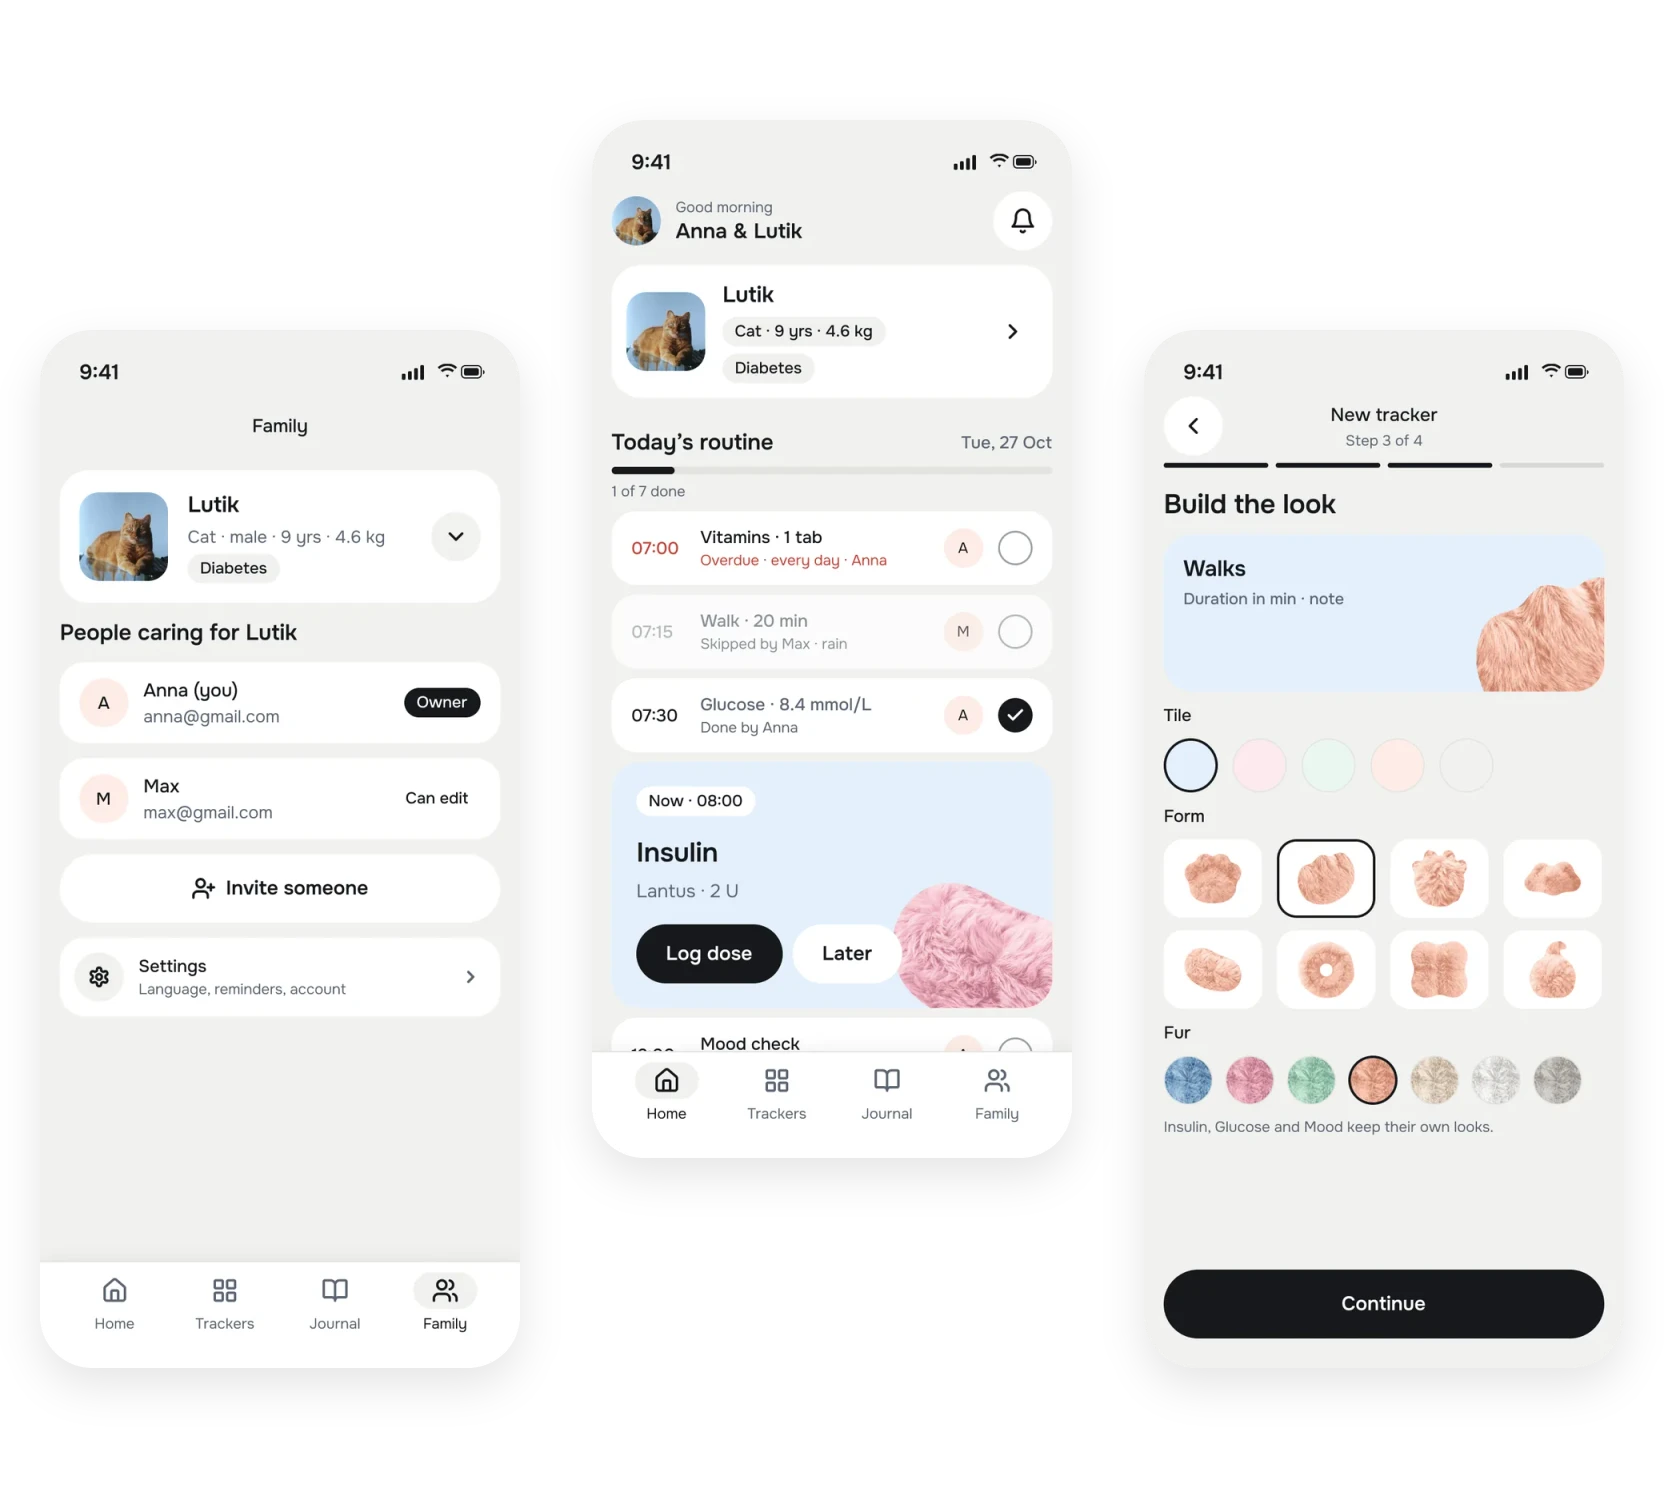
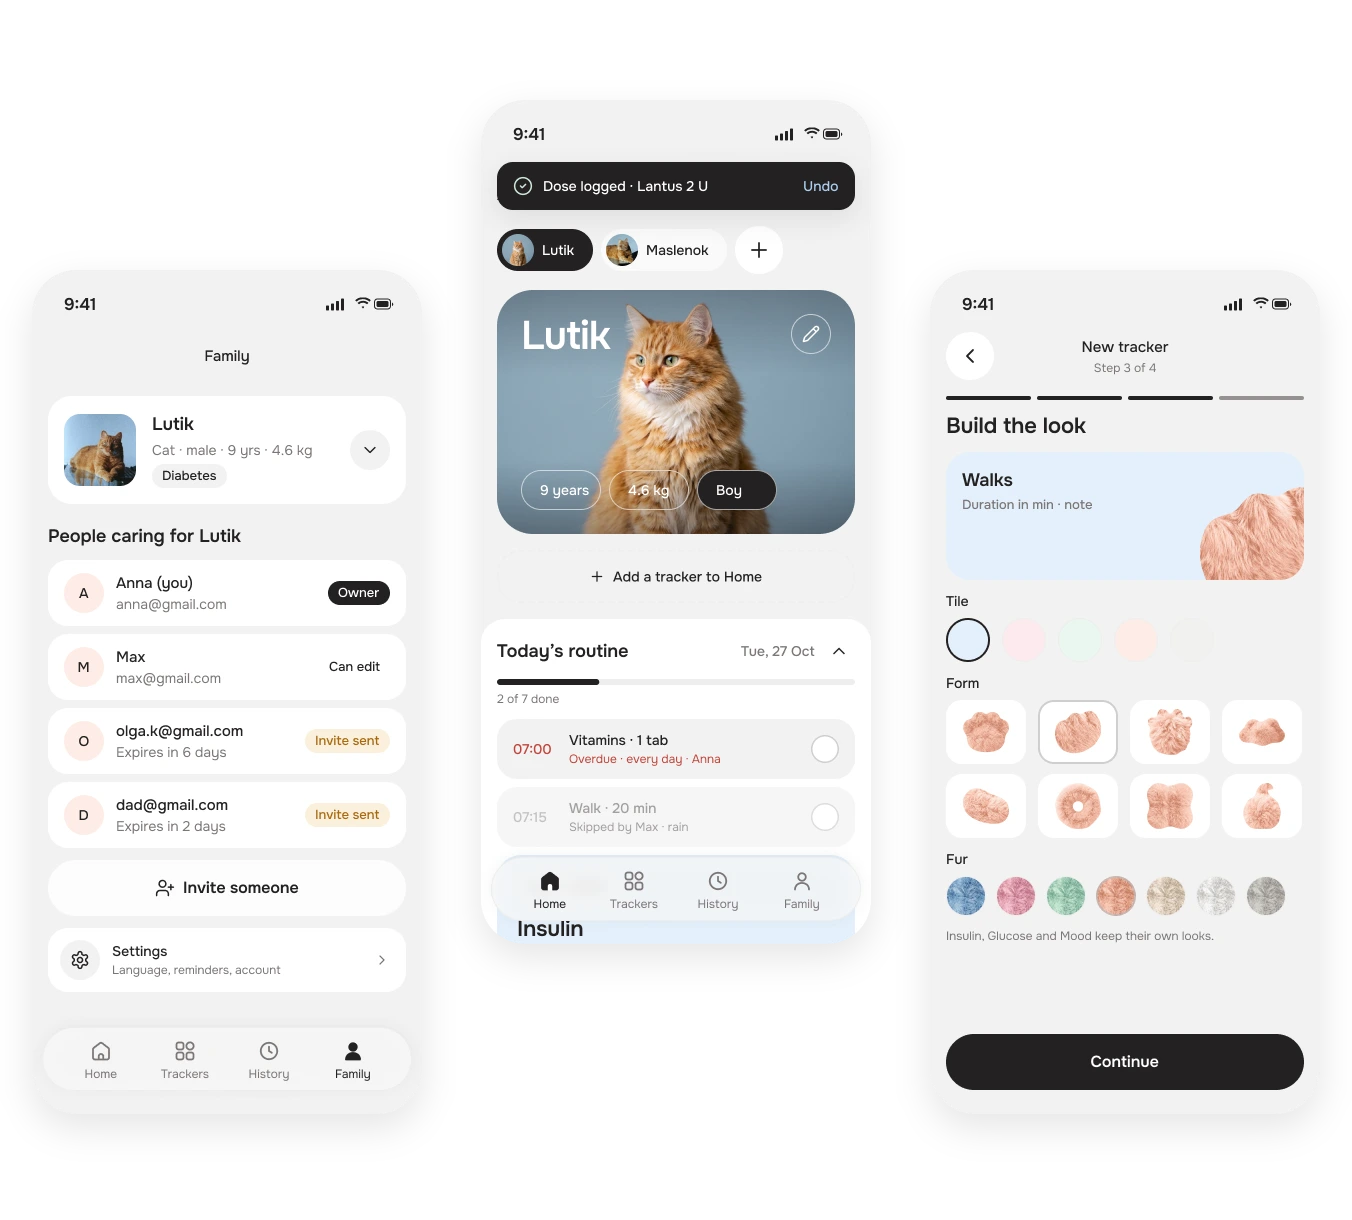
fix: cat app case uses the current Fluffy Chumb screens and MVP scope
The cover and the v2 band came from an outdated landing export. They are now
the current English frames from the Figma MVP page (77:19). The text follows
the MVP scope: reminders are local and a family push comes later, insulin and
glucose are separate trackers, family invites by email with roles, history
export for the vet. The case is named Fluffy Chumb and links to fluffychumb.com.

diff --git a/src/data/caseStudies.ru.js b/src/data/caseStudies.ru.js
@@ -58,13 +58,13 @@ export const catAppCaseStudy = {
   slug: 'cat-app',
   backHref: '/',
   hero: {
-    title: 'Трекер ухода за питомцем',
+    title: 'Fluffy Chumb',
     description:
       'Я сделала трекер уколов инсулина для своего кота. Интервью с пользователями MVP показали: уход — это не одна задача, а много мелких дел, которые делят несколько людей. Вторая версия — про гибкие трекеры и общую рутину дня.',
-    meta: 'Pet-tech / Сайд-проект / MVP → v2',
+    meta: 'Трекер ухода за питомцем / Сайд-проект / MVP → v2',
     image: {
       src: petTrackerV2Cover,
-      alt: 'Три экрана второй версии: семья, дела на сегодня и конструктор трекера',
+      alt: 'Три экрана Fluffy Chumb: семья, главная с делами на сегодня и конструктор трекера',
     },
     stats: [
       { value: '2', label: 'группы пользователей в интервью' },
@@ -188,7 +188,7 @@ export const catAppCaseStudy = {
             {
               type: 'text',
               heading: 'Карта уколов мешала тому, кто только мерит глюкозу',
-              paragraphs: ['Трекеры собираются под питомца: только нужные действия, карта уколов — по желанию.'],
+              paragraphs: ['Инсулин и глюкоза стали отдельными трекерами: тот, кто только мерит глюкозу, не видит карту уколов.'],
             },
             {
               type: 'text',
@@ -213,7 +213,7 @@ export const catAppCaseStudy = {
             {
               type: 'text',
               heading: 'Хозяева не хотят контролировать ситтера',
-              paragraphs: ['Рутина дня и push-уведомления: сделанное видно без вопросов.'],
+              paragraphs: ['В делах на сегодня видно, кто что сделал, а напоминания приходят на телефон каждому — спрашивать не нужно.'],
             },
           ],
         },
@@ -227,7 +227,7 @@ export const catAppCaseStudy = {
         {
           type: 'richTextLead',
           paragraphs: [
-            'Новое позиционирование: не трекер диабета, а приложение, где уход собирается из своих трекеров. Диабет остался одним из них.',
+            'Новое позиционирование: не трекер диабета, а Fluffy Chumb — трекер ухода, который меняется вместе с питомцем. Уход собирается из своих трекеров, и диабет остался одним из них.',
           ],
         },
         {
@@ -236,7 +236,7 @@ export const catAppCaseStudy = {
           media: {
             type: 'image',
             src: petTrackerV2Screens,
-            alt: 'Экраны второй версии: дела на сегодня, конструктор трекера, инсулин, свой трекер прогулок и доступ для семьи',
+            alt: 'Экраны Fluffy Chumb: главная с делами на сегодня, трекеры, конструктор трекера, инсулин, свой трекер прогулок и семья',
           },
         },
         {
@@ -246,19 +246,20 @@ export const catAppCaseStudy = {
               type: 'list',
               heading: 'Общий уход',
               items: [
-                'Рутина дня — все дела на сегодня в одном списке с отметками о выполнении.',
-                'Исполнитель задачи — каждый держит фокус на своих задачах и не обязан знать весь протокол.',
-                'Общий профиль питомца — доступ для семьи и пет-ситтера.',
-                'Push-уведомления — напоминают исполнителю и сообщают хозяевам, что дело сделано.',
+                'Дела на сегодня — задачи из расписаний всех трекеров в одном списке: отметить, пропустить с причиной или отложить.',
+                'У задачи видно, для кого она и кто её сделал, — каждый держит фокус на своей части протокола.',
+                'Семья — приглашение по email, в том числе пет-ситтера, с ролью Owner или Can edit.',
+                'Напоминания — уведомления на телефоне, каждый включает у себя. Пуш всей семье — следующий шаг.',
+                'История и экспорт врачу — 7 или 30 дней, графики и текстовая сводка, которой можно поделиться.',
               ],
             },
             {
               type: 'list',
               heading: 'Гибкие трекеры',
               items: [
-                'Один человек настраивает все трекеры питомца, другие могут добавить новый, когда меняется лечение.',
-                'Свой трекер под любую рутину — прогулки, таблетки, деликатные темы.',
-                'Инсулин, глюкоза и карта уколов остались для тех, кому они нужны.',
+                'Конструктор трекера: имя, поля (число, шкала, да / нет, заметка), плитка со своей формой и мехом, ритм, закрепить на главной.',
+                'Простые трекеры для таблеток, витаминов, прогулок и еды; Mood — готовый пресет.',
+                'Диабет — готовый набор из Insulin и Glucose, и каждый работает отдельно: карта уколов — только для тех, кто колет.',
               ],
             },
           ],
@@ -275,6 +276,12 @@ export const catAppCaseStudy = {
           paragraphs: [
             'Я собрала тестовую сборку и запустила посадочный лендинг для поиска бета-тестеров. Нашлись 12 человек, готовых тестировать продукт.',
           ],
+        },
+        {
+          type: 'siteLink',
+          label: 'Лендинг беты -',
+          href: 'https://fluffychumb.com/',
+          text: 'fluffychumb.com',
         },
         {
           type: 'noteCard',

diff --git a/src/data/caseStudies.js b/src/data/caseStudies.js
@@ -58,13 +58,13 @@ export const catAppCaseStudy = {
   slug: 'cat-app',
   backHref: '/',
   hero: {
-    title: 'Pet Care Tracker',
+    title: 'Fluffy Chumb',
     description:
       'I built an insulin tracker for my own cat. Interviews with MVP users showed that care is not one task but a lot of small ones shared by several people. Version two is about flexible trackers and a daily routine the whole household shares.',
-    meta: 'Pet-tech / Side project / MVP → v2',
+    meta: 'Pet care tracker / Side project / MVP → v2',
     image: {
       src: petTrackerV2Cover,
-      alt: 'Three screens of the second version: family, today’s routine and the tracker builder',
+      alt: 'Three Fluffy Chumb screens: family, home with today’s routine and the tracker builder',
     },
     stats: [
       { value: '2', label: 'user groups interviewed' },
@@ -188,7 +188,7 @@ export const catAppCaseStudy = {
             {
               type: 'text',
               heading: 'The injection map got in the way of someone who only measures glucose',
-              paragraphs: ['Trackers are built around the pet: only the actions you need, the injection map is optional.'],
+              paragraphs: ['Insulin and glucose became separate trackers: someone who only measures glucose never sees the injection map.'],
             },
             {
               type: 'text',
@@ -213,7 +213,7 @@ export const catAppCaseStudy = {
             {
               type: 'text',
               heading: 'Owners don’t want to keep checking on the sitter',
-              paragraphs: ['A daily routine and push notifications: what is done is visible without asking.'],
+              paragraphs: ['Today’s routine shows who did what, and reminders arrive on each phone — no need to ask.'],
             },
           ],
         },
@@ -227,7 +227,7 @@ export const catAppCaseStudy = {
         {
           type: 'richTextLead',
           paragraphs: [
-            'New positioning: not a diabetes tracker, but an app where care is assembled from your own trackers. Diabetes is now one of them.',
+            'New positioning: not a diabetes tracker, but Fluffy Chumb — a care tracker that changes together with your pet. Care is assembled from your own trackers, and diabetes is now one of them.',
           ],
         },
         {
@@ -236,7 +236,7 @@ export const catAppCaseStudy = {
           media: {
             type: 'image',
             src: petTrackerV2Screens,
-            alt: 'Second version screens: today’s routine, tracker builder, insulin, a custom walks tracker and family access',
+            alt: 'Fluffy Chumb screens: home with today’s routine, trackers, the tracker builder, insulin, a custom walks tracker and family',
           },
         },
         {
@@ -246,19 +246,20 @@ export const catAppCaseStudy = {
               type: 'list',
               heading: 'Shared care',
               items: [
-                'Daily routine — everything due today in one list, with done marks.',
-                'Task assignee — everyone keeps focus on their own tasks and doesn’t need to know the whole protocol.',
-                'Shared pet profile — access for family and the pet sitter.',
-                'Push notifications — remind the assignee and tell the owners a task is done.',
+                'Today’s routine — tasks from every tracker’s schedule in one list: mark done, skip with a reason or snooze.',
+                'Each task shows who it is for and who did it, so everyone keeps focus on their own part of the protocol.',
+                'Family — invite people by email, including the pet sitter, as Owner or Can edit.',
+                'Reminders — notifications on each phone, everyone turns on their own. A family-wide push is the next step.',
+                'History and export for the vet — 7 or 30 days, charts and a text summary to share.',
               ],
             },
             {
               type: 'list',
               heading: 'Flexible trackers',
               items: [
-                'One person sets up all of the pet’s trackers; others can add a new one when treatment changes.',
-                'A custom tracker for any routine — walks, pills, sensitive topics.',
-                'Insulin, glucose and the injection map stay for those who need them.',
+                'A tracker builder: name, fields (number, scale, yes / no, note), a tile with its own shape and fur, a rhythm, pin to Home.',
+                'Simple trackers for pills, vitamins, walks and food; Mood is a ready-made preset.',
+                'Diabetes is a ready-made set of Insulin and Glucose, and each works on its own — the injection map only for those who inject.',
               ],
             },
           ],
@@ -275,6 +276,12 @@ export const catAppCaseStudy = {
           paragraphs: [
             'I put together a test build and launched a landing page to recruit beta testers. Twelve people signed up and are ready to test the product.',
           ],
+        },
+        {
+          type: 'siteLink',
+          label: 'Beta landing page -',
+          href: 'https://fluffychumb.com/',
+          text: 'fluffychumb.com',
         },
         {
           type: 'noteCard',

diff --git a/src/data/portfolioData.ru.js b/src/data/portfolioData.ru.js
@@ -71,7 +71,7 @@ export const cases = byId(en.cases, {
     image: { ...en.cases[2].image, alt: 'Концепт главной страницы Kokoc Group' },
   },
   'cat-app': {
-    title: 'Трекер ухода за питомцем',
+    title: 'Fluffy Chumb',
     category: 'Здоровье питомцев / Пет-проект',
     description:
       'От трекера инсулина для одного кота — к приложению, где семья и пет-ситтер настраивают свои трекеры и делят дела на день. Пересобрано после интервью с пользователями MVP.',
@@ -122,7 +122,7 @@ export const aiProjects = {
       image: { ...en.aiProjects.items[0].image, alt: 'Окна трёх плагинов для дизайн-системы в Figma' },
     },
     {
-      title: 'Трекер ухода за питомцем',
+      title: 'Fluffy Chumb',
       category: 'Здоровье питомцев / Пет-проект',
       description:
         'Свои трекеры ухода и общая рутина дня для семьи и пет-ситтера — вторая версия, пересобранная после интервью с пользователями MVP.',

diff --git a/src/data/portfolioData.js b/src/data/portfolioData.js
@@ -162,7 +162,7 @@ export const cases = [
   },
   {
     id: 'cat-app',
-    title: 'Pet Care Tracker',
+    title: 'Fluffy Chumb',
     year: '2025',
     category: 'Pet Health / Side Project',
     description:
@@ -171,7 +171,7 @@ export const cases = [
     surface: 'pet',
     image: {
       src: petTrackerV2Cover,
-      alt: 'Three screens of the Pet Care Tracker: family, today’s routine and the tracker builder',
+      alt: 'Three Fluffy Chumb screens: family, home with today’s routine and the tracker builder',
     },
     href: '/cat-app',
   },
@@ -249,7 +249,7 @@ export const aiProjects = {
     },
     {
       id: 'cat-app',
-      title: 'Pet Care Tracker',
+      title: 'Fluffy Chumb',
       category: 'Pet Health / Side Project',
       description:
         'Custom care trackers and a shared daily routine for the family and the pet sitter — the second version, rebuilt after interviews with MVP users.',
@@ -257,7 +257,7 @@ export const aiProjects = {
       surface: 'pet',
       image: {
         src: petTrackerV2Cover,
-        alt: 'Three screens of the Pet Care Tracker: family, today’s routine and the tracker builder',
+        alt: 'Three Fluffy Chumb screens: family, home with today’s routine and the tracker builder',
       },
       href: '/cat-app',
     },

diff --git a/src/stats/format.js b/src/stats/format.js
@@ -8,7 +8,7 @@ const PAGE_NAMES = {
   '/betboom-pass': 'BetBoom PASS',
   '/yandex-turkey': 'Yandex News Turkey',
   '/kokoc-group': 'Kokoc Group',
-  '/cat-app': 'Pet Care Tracker',
+  '/cat-app': 'Fluffy Chumb',
   '/iquoto': 'IQuoto',
   '/ds-plugins': 'Design System Plugins',
   '/design-cringe': 'Design Cringe-meter',
